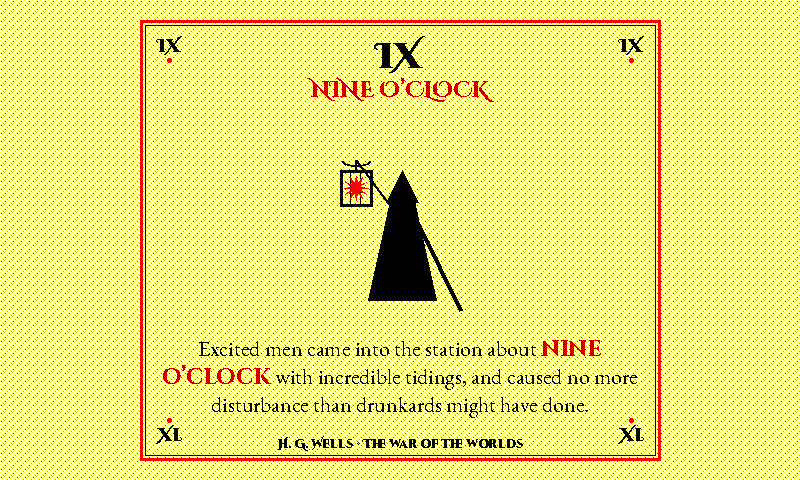
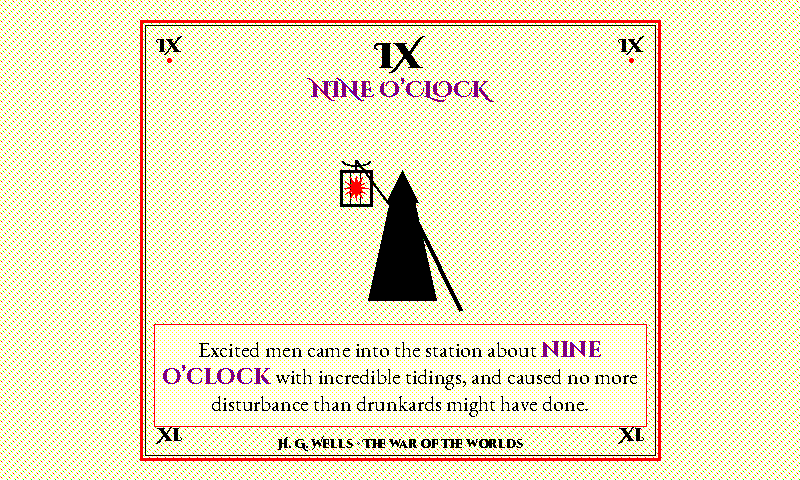
Knock out a clean body cartouche under tarot's quote
The R+G sepia foxing-stipple is great as card-stock texture but breaks
up EB Garamond's hairline serifs in the body block — small glyphs land
on top of stray red/green dots and the matched-phrase Tyrian-purple
dither gets visually muddled against the foxing's red flecks.

Adds ``_tarot_paint_body_panel``: overpaints the body region with a
solid-white wipe followed by a fresh Y+W cream wash (no R+G foxing)
and a thin red frame anchoring the knockout as a deliberate
"interpretation cartouche" — same border family as the card's
doubled outer rule. The surrounding card stock keeps the aged-vellum
foxing; only the body region is cleared.

Also bumps the body ``fit_quote`` range from 14–22pt to 15–26pt now
that the cleaner ground supports larger comfortable type, and insets
the text 8 px from the panel edge so glyphs don't kiss the red rule.

https://claude.ai/code/session_01EmirRASnbqbXKgoyu2y2Lp

diff --git a/idle_hours/render_quote.py b/idle_hours/render_quote.py
@@ -11108,19 +11108,70 @@ def _tarot_paint_emblem(
     painter(draw, cx, cy)
 
 
+def _tarot_paint_body_panel(
+    image: Image.Image,
+    draw: ImageDraw.ImageDraw,
+    rect: tuple[int, int, int, int],
+) -> None:
+    """Knock out a clean cream "interpretation panel" beneath the emblem.
+
+    The sepia foxing-stipple from ``_tarot_paint_vellum`` is gorgeous as
+    a card-stock texture but breaks up small-glyph silhouettes badly —
+    EB Garamond's hairline serifs land on top of stray red/green dots,
+    and the matched-phrase Tyrian-purple dither gets visually muddled
+    against the foxing's red flecks. This helper overpaints the body
+    region with a clean cream wash (Y+W at 1-in-8, no R+G dots) so the
+    quote sits on legible vellum rather than the heavier card-stock
+    texture. Adds a thin red frame around the panel so the knockout
+    reads as a deliberate "interpretation cartouche" rather than a
+    rendering bug — same border family as the card's doubled outer
+    rule.
+    """
+    WHITE = SPECTRA6["white"]
+    YELLOW = SPECTRA6["yellow"]
+    RED = SPECTRA6["red"]
+    x0, y0, x1, y1 = rect
+    # Step 1: solid white wipe — clears any foxing dots within the panel.
+    draw.rectangle((x0, y0, x1, y1), fill=WHITE)
+    # Step 2: lay down a fresh cream Y+W wash inside the panel so it
+    # still tonally matches the surrounding vellum (just without the
+    # heavier R+G foxing).
+    px = image.load()
+    for y in range(y0, y1):
+        row = BAYER_4x4[y % 4]
+        for x in range(x0, x1):
+            if row[x % 4] < 2:
+                px[x, y] = YELLOW
+    # Step 3: thin red rule framing the panel, anchoring it as a
+    # deliberate cartouche.
+    draw.rectangle((x0, y0, x1, y1), outline=RED, width=1)
+
+
 def _tarot_paint_body(
     image: Image.Image,
     draw: ImageDraw.ImageDraw,
     quote_row: dict,
     rect: tuple[int, int, int, int],
 ) -> None:
-    """Quote body fitted into ``rect`` with matched-phrase Tyrian purple."""
+    """Quote body fitted into ``rect`` with matched-phrase Tyrian purple.
+
+    The caller is expected to have already knocked out a clean cream
+    panel under ``rect`` via ``_tarot_paint_body_panel`` so the body
+    text and matched-phrase dither sit on legible ground rather than
+    on the heavier R+G foxing of the surrounding card stock.
+    """
     BLACK = SPECTRA6["black"]
     RED = SPECTRA6["red"]
     BLUE = SPECTRA6["blue"]
     x0, y0, x1, y1 = rect
     width = x1 - x0
     height = y1 - y0
+    # Inset slightly from the panel edge so glyphs don't kiss the red rule.
+    pad = 8
+    width -= 2 * pad
+    height -= 2 * pad
+    x0 += pad
+    y0 += pad
     display_quote = normalize_dashes(strip_underscore_emphasis(quote_row.get("display_quote") or ""))
     matched = quote_row.get("matched_text") or ""
 
@@ -11130,9 +11181,9 @@ def _tarot_paint_body(
         matched,
         width,
         height,
-        font_max=22,
-        font_min=14,
-        line_height_mult=1.28,
+        font_max=26,
+        font_min=15,
+        line_height_mult=1.24,
         theme="tarot",
     )
     quote_block_height = len(wrapped_quote) * line_height
@@ -11248,8 +11299,14 @@ def render_tarot_frame(time_str: str, quote_row: dict, width: int, height: int) 
     # centre) clear the name band.
     _tarot_paint_emblem(image, draw, hour_int, cx, y0 + 200)
 
-    # Body — sits below the emblem in the lower third of the card.
-    body_rect = (x0 + 20, y0 + 310, x1 - 20, y0 + 400)
+    # Body interpretation cartouche — knock out a clean cream panel
+    # under the body so the quote text + matched-phrase dither sit on
+    # legible ground rather than on the heavier R+G foxing of the
+    # surrounding card stock. The panel runs slightly wider than the
+    # body rect inset would suggest because the red frame is the visual
+    # anchor of the cartouche.
+    body_rect = (x0 + 14, y0 + 304, x1 - 14, y0 + 406)
+    _tarot_paint_body_panel(image, draw, body_rect)
     _tarot_paint_body(image, draw, quote_row, body_rect)
 
     # Attribution at the bottom.
